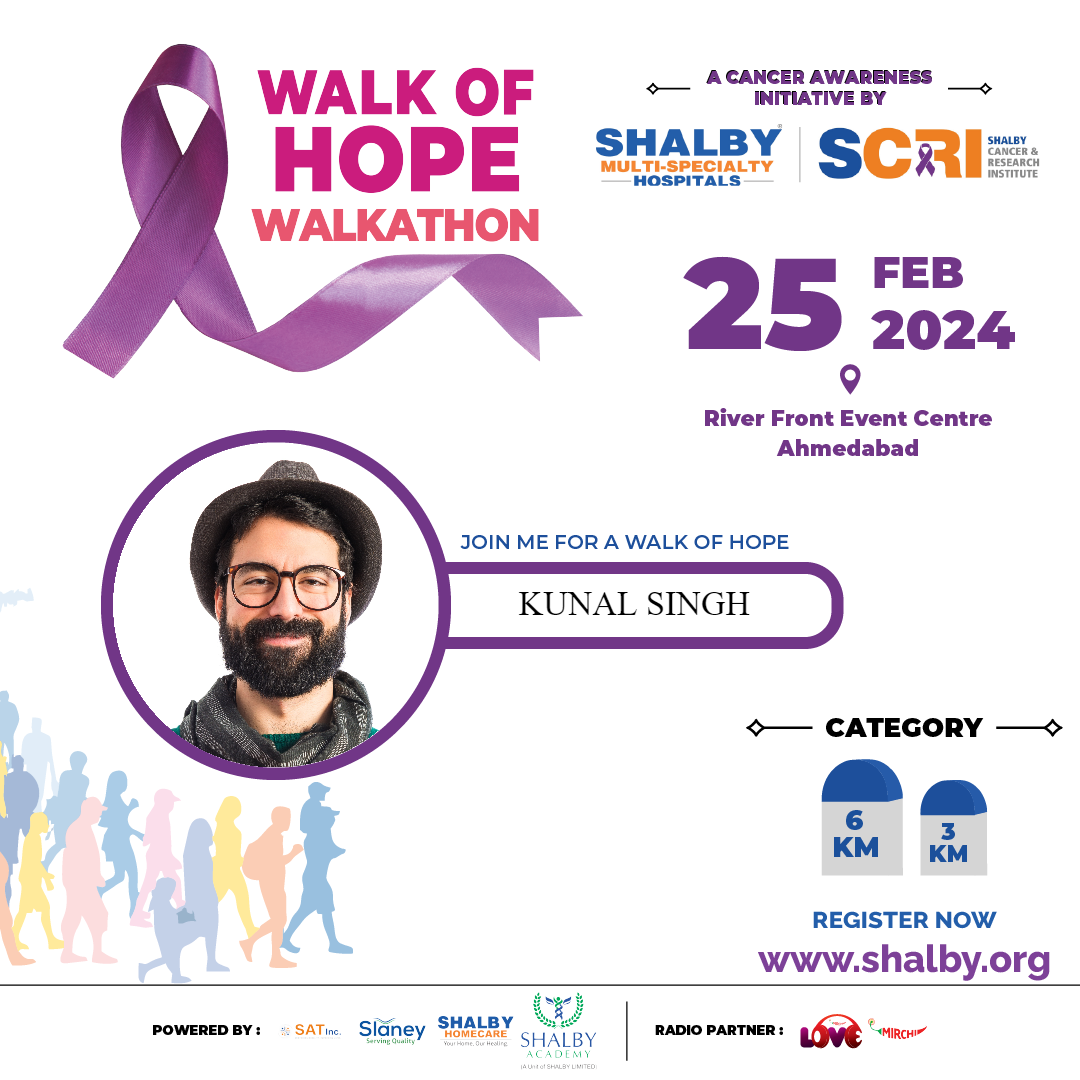
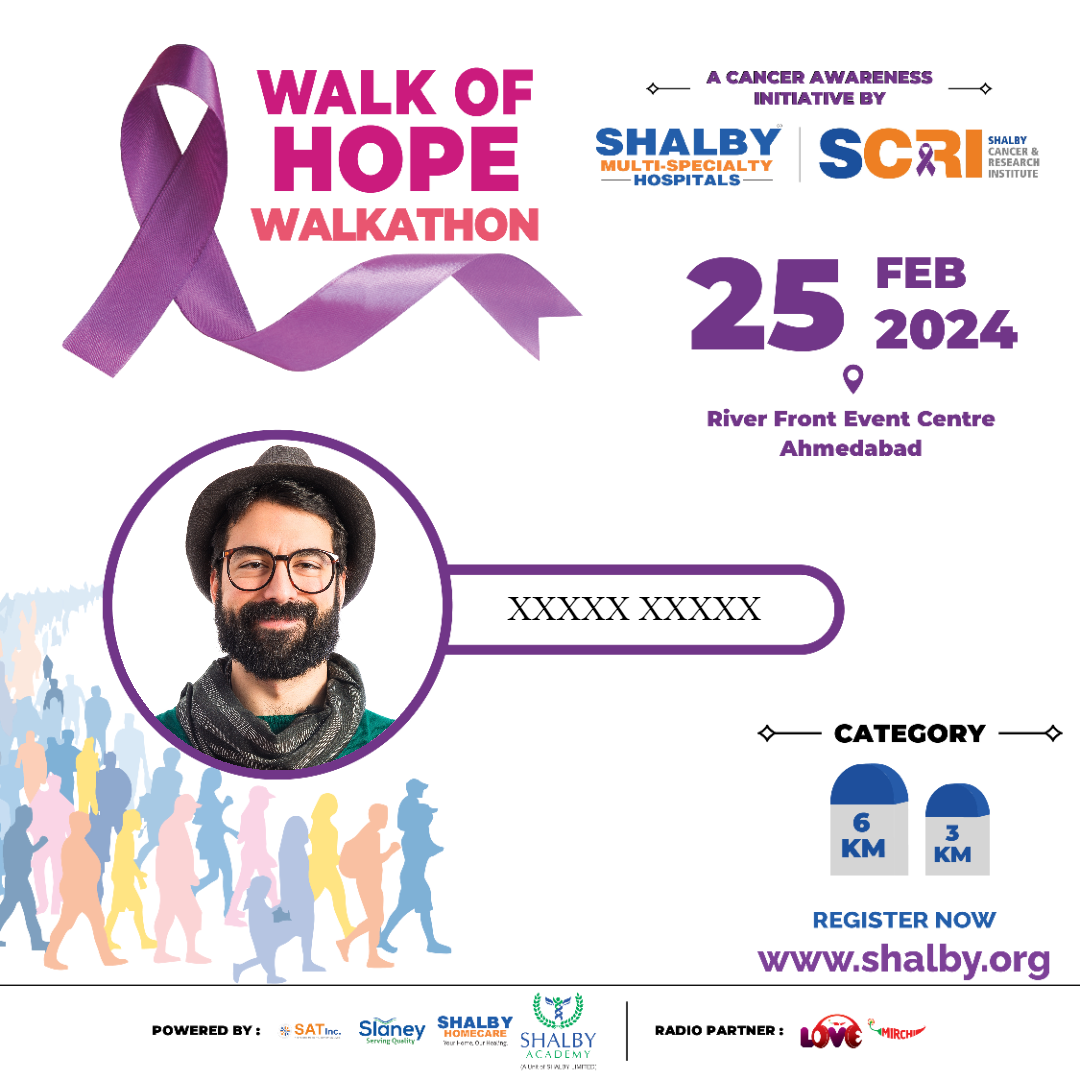
post change

diff --git a/src/Pages/Share.tsx b/src/Pages/Share.tsx
@@ -100,15 +100,15 @@ export default function App() {
     ctx.textAlign = "center";
     var textWidth = ctx.measureText(name).width;
     const leftI = (418.6 / textWidth / 2) * textWidth + 425;
-    ctx.fillText(name.toUpperCase(), leftI, 615, 300);
+    ctx.fillText(name.toUpperCase(), leftI, 620, 300);
     ctx.beginPath();
-    const radius = 325 / 2;
-    const centerX = 113 + radius;
-    const centerY = 442.5 + radius;
+    const radius = 330 / 2;
+    const centerX = 130.5 + radius;
+    const centerY = 440 + radius;
     ctx.arc(centerX, centerY, radius, 0, Math.PI * 2);
     ctx.closePath();
     ctx.clip();
-    ctx.drawImage(previewCanvas, 113, 442.5, 325, 325);
+    ctx.drawImage(previewCanvas, 130.5, 440, 330, 330);
     const blob = await offscreen.convertToBlob({
       type: "image/png",
     });
@@ -309,13 +309,11 @@ export default function App() {
           <div className="relative w-[300px] mt-5">
             <img src={post} className="" alt="" />
             {name && (
-              <div className="absolute flex items-center justify-center  w-[116.2778px] h-[24.722px] top-[154.1667px] left-[118.0556px]">
-                <p className=" uppercase font-bold text-[12px] top-[706px]">
-                  {name}
-                </p>
+              <div className="absolute flex items-center justify-center  w-[116.2778px] h-[24.722px] top-[155.1667px] left-[118.0556px]">
+                <p className=" uppercase font-bold text-[12px] ">{name}</p>
               </div>
             )}
-            <div className="absolute max-w-[91.2778px] max-h-[91.2778px] top-[122.9167px] left-[32.3889px]">
+            <div className="absolute max-w-[91.2778px] max-h-[91.2778px] top-[121.9167px] left-[36.8889px]">
               <canvas
                 ref={previewCanvasRef}
                 className="rounded-[50%] w-full h-full"
